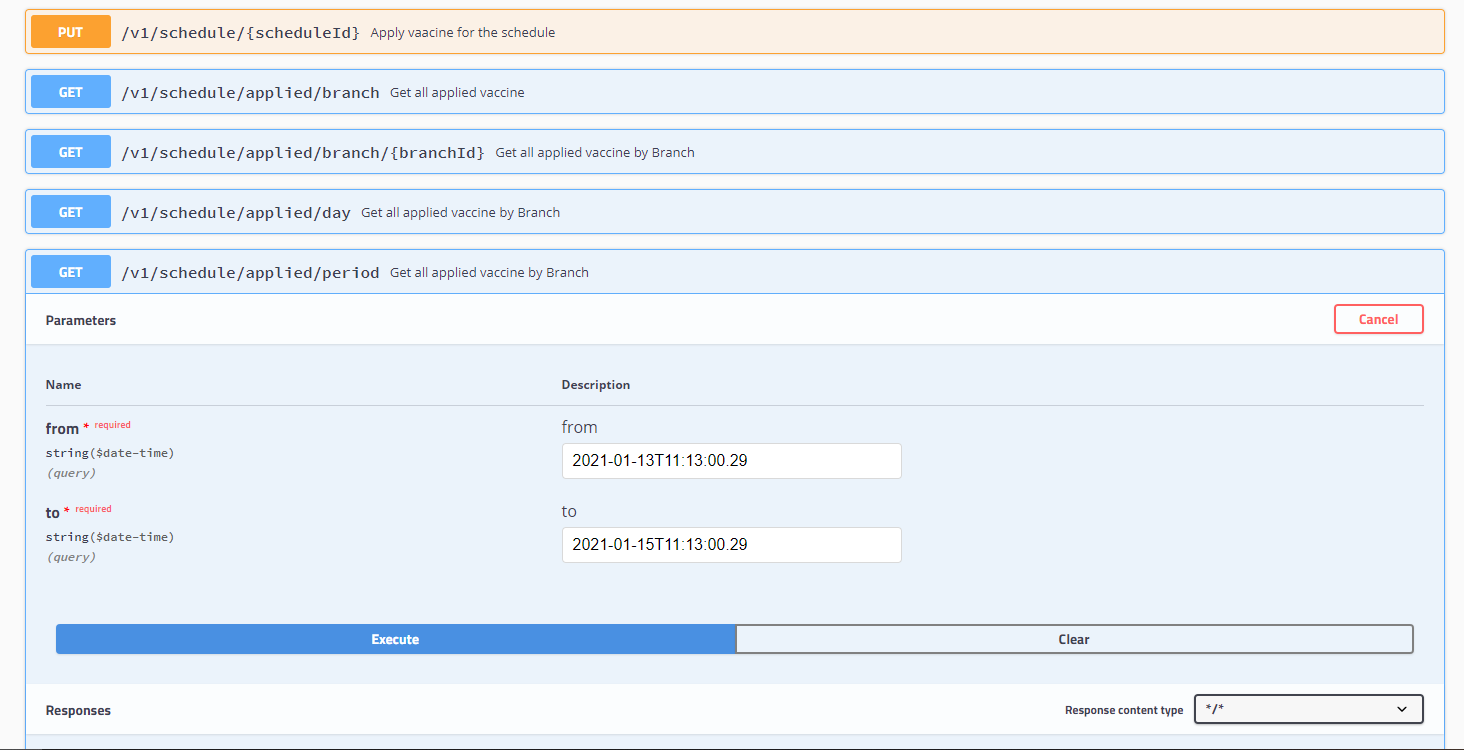
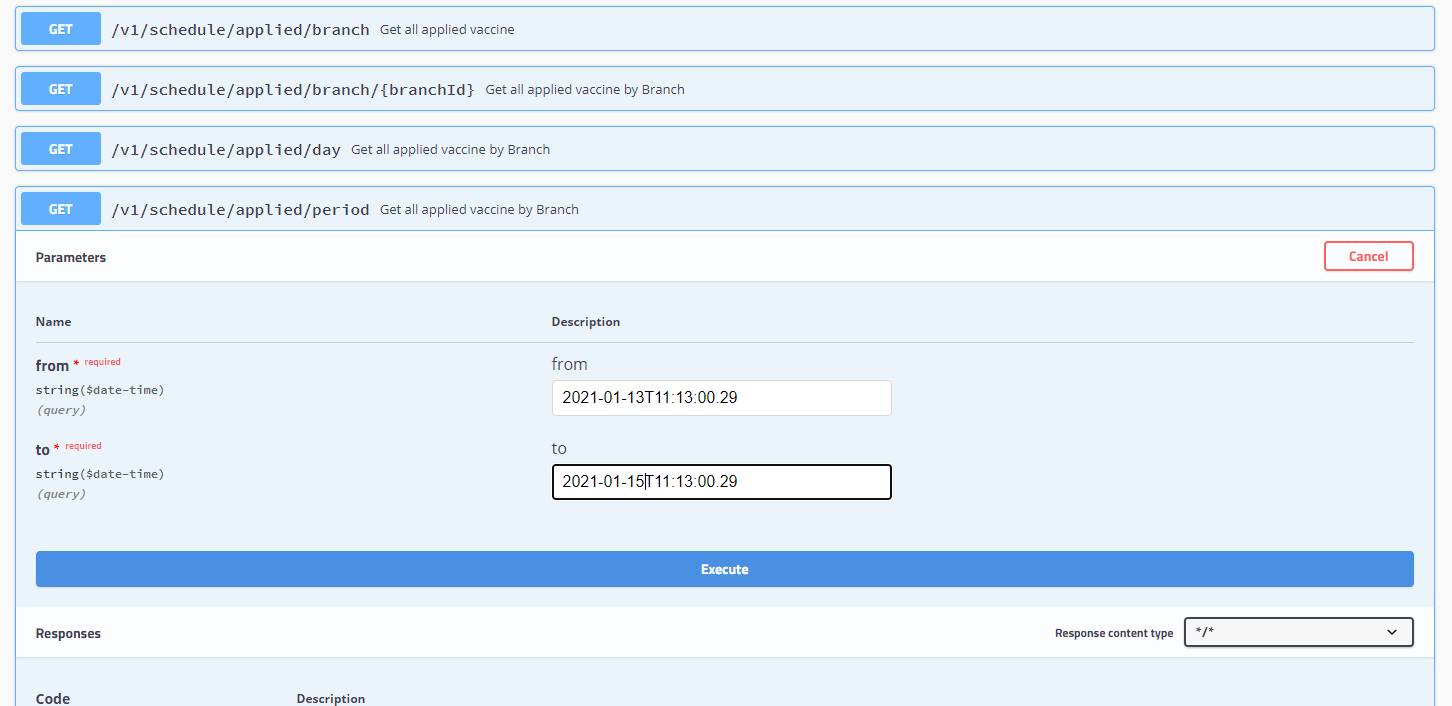
update api uri for applying vaccine

diff --git a/src/main/java/com/ankitech/vaccnow/controller/ScheduleController.java b/src/main/java/com/ankitech/vaccnow/controller/ScheduleController.java
@@ -73,7 +73,7 @@ public class ScheduleController {
 
     @ApiOperation(value = "Apply vaacine for the schedule", response = Schedule.class,
             consumes = MediaType.APPLICATION_JSON_VALUE, produces = MediaType.APPLICATION_JSON_VALUE)
-    @PutMapping("/{scheduleId}")
+    @PutMapping("/apply/{scheduleId}")
     public ResponseEntity<Schedule> updateQuestion(@PathVariable("scheduleId")
                                                    @NotBlank
                                                    @Size(min = 10, max = 64, message = "schedule id should be between 10 and 64 characters")
